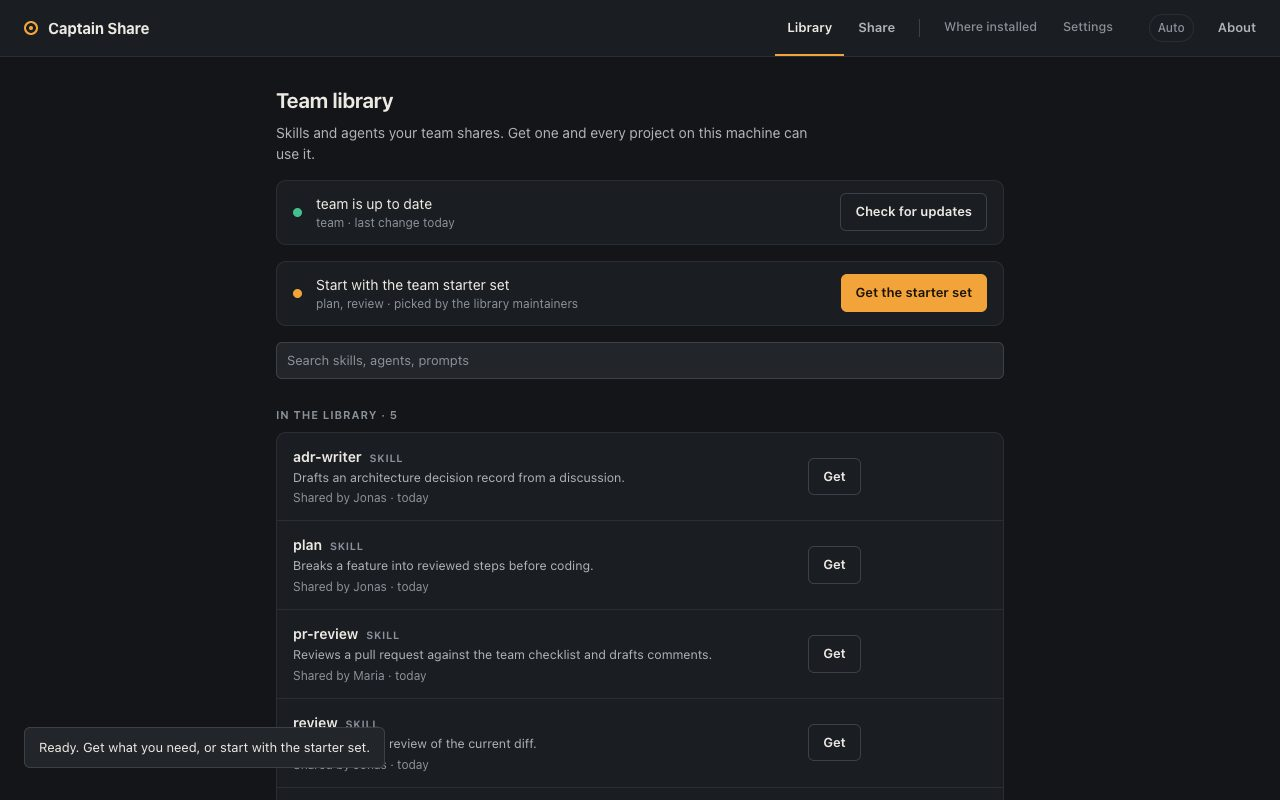
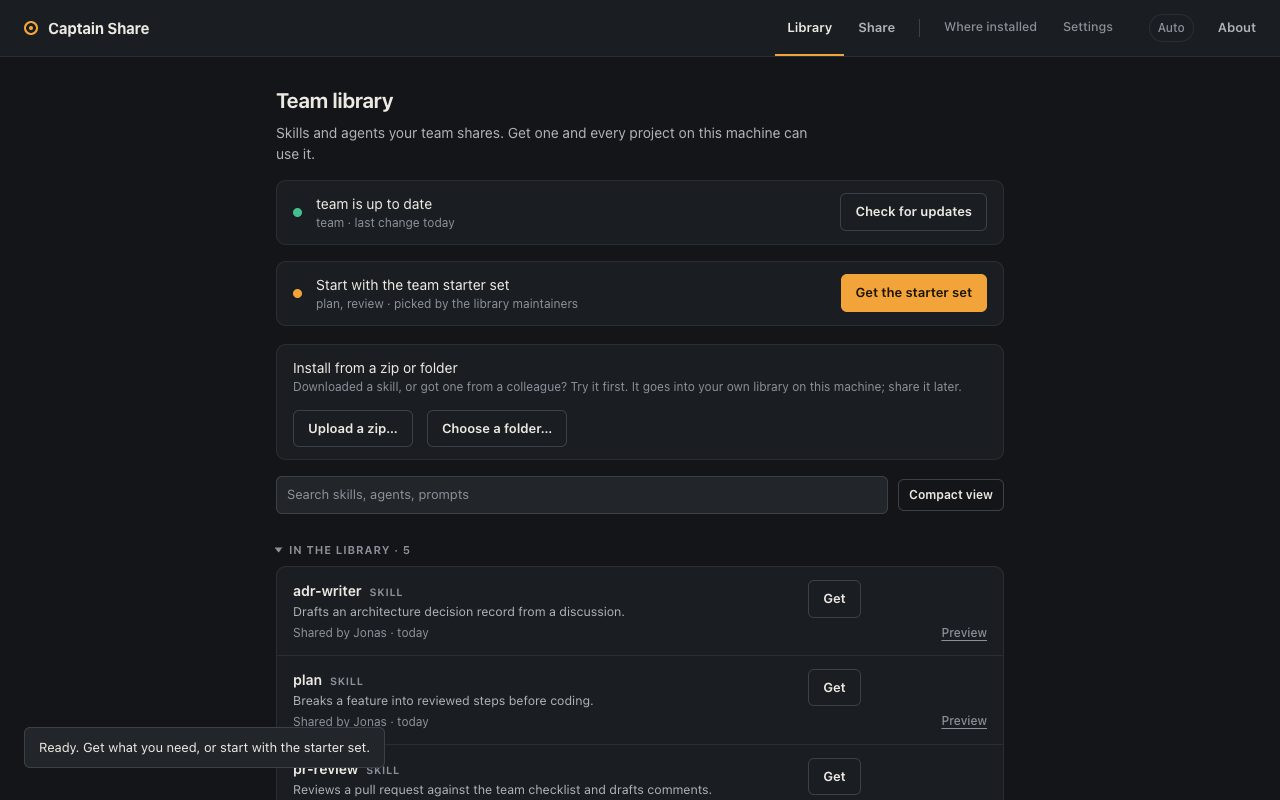
Re-record the tour for the current window
Fifteen steps instead of thirteen: Preview in Share, installing a zip into
your own library first, and Behind the team (an old copy of plan after a
teammate improved it) are new; Share and Tell your team show where the commit
landed. The fixture gives its home folder a fictional Git identity and the
recording closes Chrome even when a step fails. "1 update waiting" now reads
correctly.

diff --git a/captain_share/web/tour.js b/captain_share/web/tour.js
@@ -5,7 +5,7 @@ const STEPS = [
   {
     image: "01-setup.jpg",
     x: 41.4,
-    y: 38.4,
+    y: 41.9,
     click: true,
     title: "Set up once",
     text: "A new teammate picks the agents they use, for example Kiro and Claude Code. Skills they get are linked into each of them.",
@@ -13,7 +13,7 @@ const STEPS = [
   {
     image: "02-clone.jpg",
     x: 37.4,
-    y: 66.1,
+    y: 69.6,
     click: true,
     title: "Add the team library",
     text: "Paste the Git address of your team's library. It is cloned into ~/Libraries with your own Git access. Nothing else is needed.",
@@ -37,7 +37,7 @@ const STEPS = [
   {
     image: "05-get.jpg",
     x: 65.2,
-    y: 76.2,
+    y: 74.6,
     click: true,
     title: "Get what a colleague recommends",
     text: "Someone says “try pr-review”. Find it in Library and click Get.",
@@ -51,20 +51,28 @@ const STEPS = [
     text: "Everywhere for you, in every project, or only in this project. The review shows the exact links before anything changes.",
   },
   {
-    image: "07-share.jpg",
-    x: 26.8,
-    y: 85.3,
+    image: "07-look.jpg",
+    x: 74.2,
+    y: 37.6,
     click: true,
-    title: "Share what works",
-    text: "Made a useful skill in a project? Share copies it into the library, commits it with your note, and pushes it to the team.",
+    title: "Look before you share",
+    text: "Share lists skills in this project and in your global folders that no library has yet. Preview shows what is inside; Show in Finder opens the folder.",
   },
   {
-    image: "08-shared.jpg",
+    image: "08-share.jpg",
+    x: 26.8,
+    y: 90.5,
+    click: true,
+    title: "Share what works",
+    text: "Share copies it into the library, commits it with your note, and pushes it to the team. A library check, when set, runs first.",
+  },
+  {
+    image: "09-shared.jpg",
     x: 72.3,
-    y: 67.6,
+    y: 62.5,
     click: true,
     title: "Tell your team",
-    text: "You get a line to paste in chat. That is all a teammate needs.",
+    text: "The result says where the commit landed. You get a line to paste in chat; that is all a teammate needs.",
   },
   {
     terminal:
@@ -73,23 +81,23 @@ const STEPS = [
     text: "They paste the line into a terminal, see what it will link, and confirm. The skill is in every project for them.",
   },
   {
-    image: "10-import.jpg",
-    x: 34.1,
-    y: 54.6,
+    image: "11-install.jpg",
+    x: 26,
+    y: 50,
     click: true,
     title: "Got a skill as a zip?",
-    text: "Downloaded one, or a colleague sent a folder? Upload it here. It is checked first, then added to the library like any other.",
+    text: "Downloaded one, or a colleague sent a folder? Install it into your own library first and try it. Share it with the team later, from Share.",
   },
   {
-    image: "11-updates.jpg",
+    image: "12-updates.jpg",
     x: 72.4,
-    y: 26.5,
+    y: 36.6,
     click: true,
     title: "Weeks later: what's new?",
     text: "Check for updates asks Git whether the team pushed anything. Update library brings it in.",
   },
   {
-    image: "12-new.jpg",
+    image: "13-new.jpg",
     x: 65.2,
     y: 50,
     click: false,
@@ -97,8 +105,16 @@ const STEPS = [
     text: "New items wait at the top with who shared them. Get the ones you want; ignore the rest.",
   },
   {
-    image: "13-where.jpg",
-    x: 30.4,
+    image: "14-behind.jpg",
+    x: 69.7,
+    y: 49.9,
+    click: false,
+    title: "Behind the team",
+    text: "An old copy of plan is still in this project, and the team has improved plan since. One click swaps the copy for the team version; the copy goes to the Archive.",
+  },
+  {
+    image: "15-where.jpg",
+    x: 37,
     y: 50,
     click: false,
     title: "The full picture, when you need it",

diff --git a/captain_share/web/app.js b/captain_share/web/app.js
@@ -2027,7 +2027,12 @@ function libraryStrip(lib) {
           renderHome();
           message(
             status.behind
-              ? status.behind + " updates waiting. Update library to get them."
+              ? status.behind +
+                  (status.behind === 1
+                    ? " update waiting."
+                    : " updates waiting.") +
+                  " Update library to get " +
+                  (status.behind === 1 ? "it." : "them.")
               : lib.source + " is up to date.",
           );
           return;

diff --git a/scripts/tour/README.md b/scripts/tour/README.md
@@ -5,9 +5,10 @@ setup. Record it again after visible UI changes:
 
 1. `scripts/tour/fixture.sh /tmp/cs-tour` builds a disposable library (a bare Git
    remote with fictional authors), a project with one local skill, and a skill zip.
-2. Start the server it prints, with `CAPTAIN_SHARE_HOME` set as shown.
+2. Start the server it prints, with `HOME` and `CAPTAIN_SHARE_HOME` set as shown, so
+   paths read `~/…` and commits use a fictional identity.
 3. `node scripts/tour/capture.mjs "URL#token=…" /tmp/cs-tour captain_share/web/tour`
-   drives headless Chrome (macOS path) through first setup, Get, Share, import,
-   Update library and Where installed, writes `NN-*.jpg`, and prints the steps.
+   drives headless Chrome (macOS path) through first setup, Get, Preview and Share,
+   installing a zip, Update library, Behind the team and Where installed, writes `NN-*.jpg`, and prints the steps.
 4. Paste the printed steps into `STEPS` in `tour.js`, and check every screenshot:
    only fictional names and neutral paths may appear.
